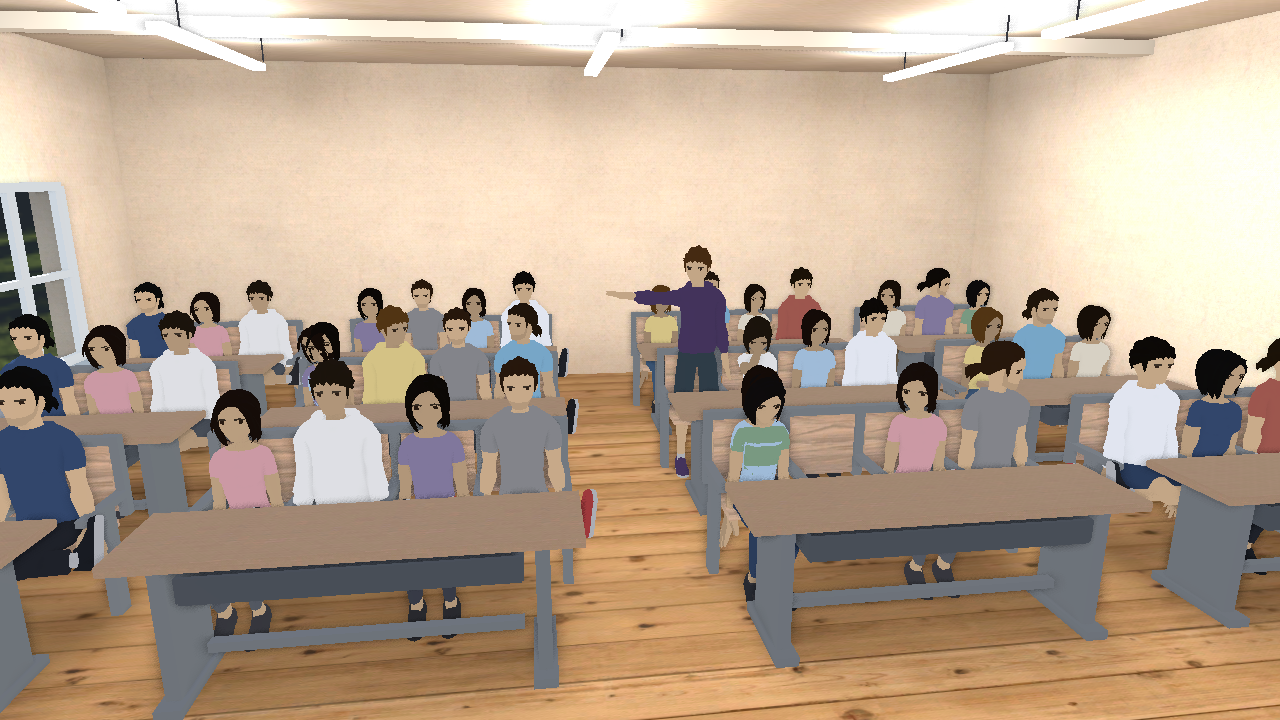
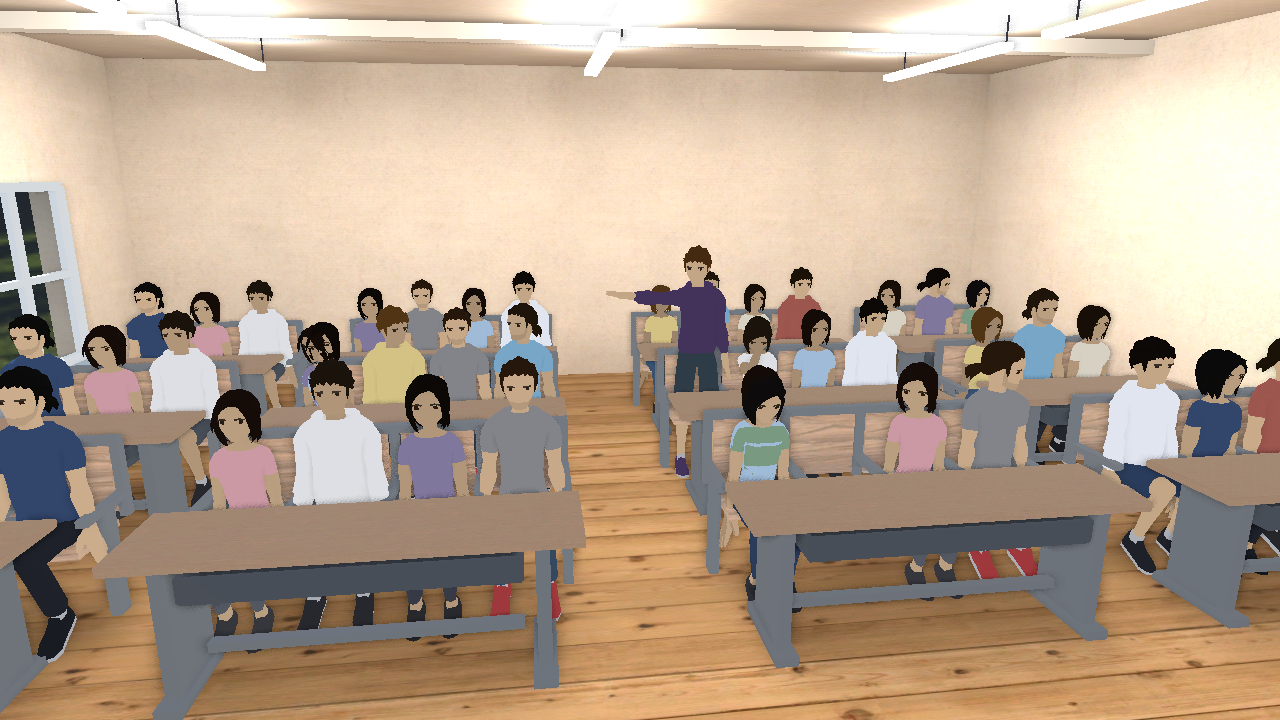
fix: 坐姿小腿收正为端坐，并加入角度微调避免过于整齐
- 男女骨架小腿骨局部轴不同，固定欧拉角会让男生小腿外撇、双脚交叉像盘腿
- apply_pose 在所有坐姿里把 LowerLeg 全局朝向统一为女模校准姿态：
  X=骨架+X，Y=朝下略向前，Z=X×Y，膝部位置沿用大腿结果
- 新增 leg_variation（-1..1）：各人小腿再偏 0–2.5°、左右腿各 0.6°
- 满座 42 座、对话预览、全员预览分配不同微调值；效果图同步更新

diff --git a/docs/素材登记.md b/docs/素材登记.md
@@ -15,7 +15,7 @@
 | ART-007 | 波纹铁皮贴图 corrugated iron 1K（diffuse / normal / roughness / metal）/ 已入库 | https://polyhaven.com/a/corrugated_iron （用户提供的 `corrugated_iron_1k.blend.zip`） | Poly Haven | CC0 1.0 | EXR→PNG；metal 图接到 metallic_texture，metallic 上限压到 0.35（Compatibility 渲染器无反射探针，纯金属会发黑） | assets/textures/room/corrugated_iron/；材质 assets/materials/metal_corrugated_iron.tres；用于 props/control_cabinet.tscn 的柜体 | 待定 |
 | ART-008 | 天空 HDRI「J&E Gray 02」/ 已入库 | https://polyhaven.com/a/je_gray_02 （用户提供的 `je_gray_02_4k.exr`） | Poly Haven | CC0 1.0，可商用可修改，无需署名 | 用 Godot `Image` 缩到 2048×1024 另存 EXR，图案未改；原始 4K 文件保留在 `assets/sky/_source/`（含 `.gdignore`，不进引擎、不参与导入）；入库文件 21.9 MiB 超过 10 MiB 上限；用户 2026-10-23 明确要求随本次更新提交到 GitHub（负责人批准，理由：窗景与天空需要 HDRI，其他成员需要直接拉到可运行场景）；原始 4K 文件仍留本地 _source/ | assets/sky/je_gray_02_2k.exr；assets/sky/classroom_sky.tres（PanoramaSkyMaterial） | 待定 |
 | ART-009 | 教室烘焙光照（classroom.exr + classroom.lmbake）/ 已入库 | 项目内生成（LightmapGI 烘焙，非外部素材） | 本项目 | 无第三方素材 | 在编辑器里对 `scenes/classroom_static.tscn` 的 LightmapGI 执行 Bake；参数与步骤见 [光照与烘焙](光照与烘焙.md)；512×512 × 5 层 atlas | assets/lightmaps/ | 待定 |
-| CHAR-001 | 主角与观察者（学生 Casual）、教师（Suit）、教室同学 3 款学生便装基础模型（Casual/Casual2/WomensCasual）× 12 套配色 + 身高微调 / 已入库（另 9 款工装、户外、泳装、正装、朋克等非学生造型保留在 assets 内作其他场景备用，未在任何场景中使用） | https://quaternius.com/packs/modularmen.html 、https://quaternius.com/packs/modularwomen.html （下载自镜像 https://github.com/trebeljahr/quaternius-showcase ，官方站跳转 itch.io） | Quaternius | CC0 1.0 Universal，可修改可分发，不要求署名；许可全文与说明保留在 assets/characters/quaternius/ | 未修改 .glb 源文件；运行时统一材质（粗糙、无高光）并以骨骼旋转应用静态姿态；同学便装按 Body/Legs/Feet/Head 部位复制材质并覆盖颜色（12 套配色，肤色按系数微调），身高 0.97–1.03；手臂下垂为运行时按骨架自动瞄准（男女骨架通用），掩嘴为两骨 IK，见 scripts/character_pose.gd | assets/characters/quaternius/*.glb；scenes/actors/character_pose/（主角 8 姿态 + 教师站姿 + 同学便装 3 款 × 坐姿/低头/议论 + 事件姿态 + classroom_seating + classroom_dialogue_preview + preview） | 人物负责人（@Yai1024） |
+| CHAR-001 | 主角与观察者（学生 Casual）、教师（Suit）、教室同学 3 款学生便装基础模型（Casual/Casual2/WomensCasual）× 12 套配色 + 身高微调 / 已入库（另 9 款工装、户外、泳装、正装、朋克等非学生造型保留在 assets 内作其他场景备用，未在任何场景中使用） | https://quaternius.com/packs/modularmen.html 、https://quaternius.com/packs/modularwomen.html （下载自镜像 https://github.com/trebeljahr/quaternius-showcase ，官方站跳转 itch.io） | Quaternius | CC0 1.0 Universal，可修改可分发，不要求署名；许可全文与说明保留在 assets/characters/quaternius/ | 未修改 .glb 源文件；运行时统一材质（粗糙、无高光）并以骨骼旋转应用静态姿态；同学便装按 Body/Legs/Feet/Head 部位复制材质并覆盖颜色（12 套配色，肤色按系数微调），身高 0.97–1.03、坐姿小腿 ±2.5° 微调；手臂下垂为运行时按骨架自动瞄准（男女骨架通用），掩嘴为两骨 IK，见 scripts/character_pose.gd | assets/characters/quaternius/*.glb；scenes/actors/character_pose/（主角 8 姿态 + 教师站姿 + 同学便装 3 款 × 坐姿/低头/议论 + 事件姿态 + classroom_seating + classroom_dialogue_preview + preview） | 人物负责人（@Yai1024） |
 | CHAR-002 | 几何体降级人形 / 候选（备用，未启用） | 项目内自建（Godot 基础网格） | 本项目 | 无第三方美术素材；整体授权仍由团队决定 | BoxMesh/SphereMesh + Node3D 关节层级，同一 `apply_pose()` 接口支持 6 种姿态 | 尚未导入（需要时再提交，模型管线验证未失败） | 人物负责人（@Yai1024） |
 | VOICE-001 | 老师关键台词 / 待生成 | 团队已有工具，具体名称待填 | 待填写 | 确认可导出、可用于课堂展示和随包分发；禁止未授权模仿真人 | 台词版本与声音标识待填 | 尚未导入 | 声音负责人 |
 | FONT-001 | 正式中文字体 / 未选定；临时界面使用引擎默认字体与回退机制 | Godot 默认机制；未新增外部字体文件 | 正式字体待填写 | 正式字体须核实嵌入与分发许可；跨机显示待检查 | 当前未导入字体文件 | scenes/ui/prototype_ui.tscn | 界面负责人 |

diff --git a/docs/任务四教室便装替换-2026-10-23.md b/docs/任务四教室便装替换-2026-10-23.md
@@ -31,6 +31,7 @@ Quaternius 的 Modular Men / Women 包里没有更多「学生制服」，但模
 - 新增导出属性：
   - `outfit`（0–12，0 = 原色；主角与教师保持 0）
   - `height_scale`（0.97–1.03，坐姿不影响座面高度）
+  - `leg_variation`（-1–1，坐姿小腿再偏 ±2.5°，各人略有差别）
 - 满座 42 人按「同排左右、同列前后、隔排同列」都不撞色/不撞模型的原则排布；
   配色与基础模型的使用次数拉平（每套配色 3–5 人，男女各 21 人）。
 
@@ -51,9 +52,22 @@ Quaternius 的 Modular Men / Women 包里没有更多「学生制服」，但模
 
 ![配色对照](task4-outfits/03-palettes.png)
 
-近景检查（发色覆盖不影响眉毛与眼睛）：
+三种底模的端坐姿势对照（男·短袖 / 男·卫衣 / 女，均膝盖朝前、小腿垂落）：
 
-![近景](task4-outfits/04-closeup.png)
+![坐姿对照](task4-outfits/04-closeup.png)
+
+## 追加修正：端坐姿势（2026-10-23）
+
+- **现象**：男生模型坐下后小腿向外撇、双脚在身前交叉，看起来像盘腿；女生模型正常。
+- **原因**：男、女骨架的 `LowerLeg` 骨局部轴不同。坐姿用的固定欧拉角（大腿 -90°、小腿 110°）
+  在女模上得到正常坐姿，在男模上却把小臂/小腿甩向两侧；只按方向瞄准还会残留滚转，双脚交叉。
+- **修正**：`apply_pose()` 在所有坐姿（SIT / HEAD_DOWN / WHISPER / COVER_MOUTH / SIDE_GLANCE / NOD，
+  以及主角 `sit`）里，把两侧小腿骨的**全局朝向**统一为女模校准结果：
+  X = 骨架 +X，Y = 朝下略向前 `(0, 0.386, -0.922)`，Z = X×Y；膝部位置沿用大腿算出的结果。
+- **效果**：所有学生与主角坐下时膝盖朝前、小腿垂直、双脚朝前，不再有盘腿/外八；站姿不受影响。
+- **避免过于整齐**：新增 `leg_variation`（-1–1），每个人的小腿在标准朝向上再偏 0–2.5°，
+  左右腿各偏 0.6°；42 个座位与对话预览都分配了不同值，远看仍是端坐，近看不会像队列。
+  想恢复整齐时把该值全部设为 0 即可。
 
 ## 场景与文件变更
 

diff --git a/assets/characters/quaternius/README.md b/assets/characters/quaternius/README.md
@@ -41,6 +41,7 @@
    - 满座教室：`classroom_seating.tscn`（42 座全满，主角在第二排第七位）
    - 对话时刻预览：`classroom_dialogue_preview.tscn`（真教室 + 教师 + 主角站讲 + E02/E03 + 议论同学）
    - 全员预览：`preview.tscn`（前排主角 6 姿态，后排教师+6 同学）
-4. **同学配色**：实例上设 `outfit = 1..12`（`OUTFIT_PALETTES`，0 = 模型原色），按 上衣/裤子/鞋/头发 四组材质改色，肤色按系数微调；每件实例复制自己的材质，互不影响。`height_scale` 可做 0.97–1.03 的轻微身高差。改配色只动 `character_pose.gd` 里的常量，不用新建模型或场景。
+4. **同学配色与差异**：实例上设 `outfit = 1..12`（`OUTFIT_PALETTES`，0 = 模型原色），按 上衣/裤子/鞋/头发 四组材质改色，肤色按系数微调；每件实例复制自己的材质，互不影响。`height_scale` 可做 0.97–1.03 的轻微身高差，`leg_variation`（-1..1）让坐姿小腿再偏 0–2.5°。改配色只动 `character_pose.gd` 里的常量，不用新建模型或场景。
+   - 坐姿小腿由 `_aim_shin()` 按骨架空间方向收正（男模小腿骨局部轴与女模不同，固定欧拉角会外撇成盘腿）；不要再用固定角度改小腿。
 5. 材质统一由 `scripts/character_pose.gd` 在运行时设为粗糙、无高光（Compatibility 渲染器兼容）；不修改 .glb 源文件。
-6. 膝盖弯曲等角度已用批量渲染扫描校准（90° 会小腹突出、180° 过度折叠，110° 垂直自然），没有把握不要凭感觉改。
+6. 大腿角度已用批量渲染扫描校准（`SEATED_LEGS` 的 -90°），小腿在此基础上由 `_aim_shin()` 统一收正到端坐，并可按 `leg_variation` 微调；没有把握不要凭感觉改。
